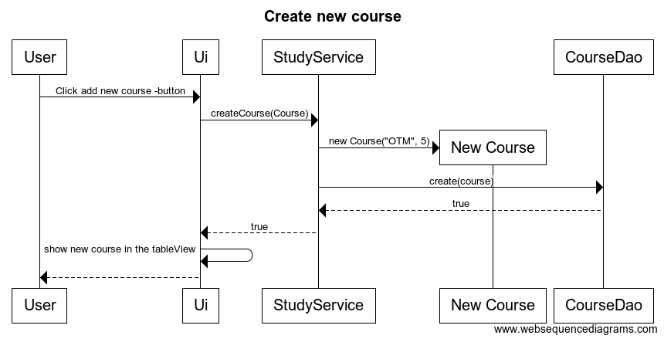
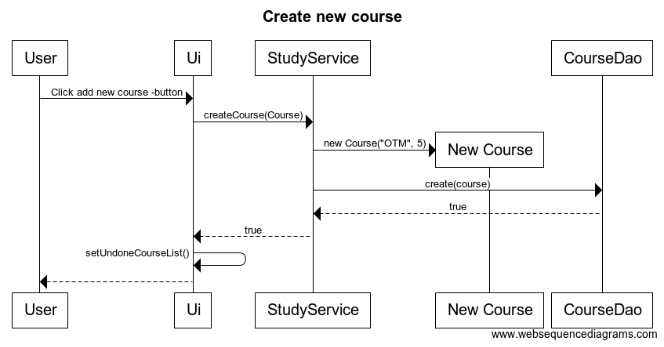
credit sum updated to change according the view

diff --git a/OpintoApp/src/main/java/opintoapp/ui/UserStudySceneController.java b/OpintoApp/src/main/java/opintoapp/ui/UserStudySceneController.java
@@ -47,7 +47,7 @@ public class UserStudySceneController implements Initializable {
 
     @FXML
     private TableView<Course> tableView;
-    
+
     @FXML
     private Label sumLabel;
 
@@ -78,6 +78,7 @@ public class UserStudySceneController implements Initializable {
 
     /**
      * Sets the list to show unfinished courses of the user
+     *
      * @throws SQLException if getting the courses fails, throws SQL Exception
      */
     public void setUndoneCourseList() throws SQLException {
@@ -88,6 +89,7 @@ public class UserStudySceneController implements Initializable {
 
     /**
      * Sets the list to show finished courses of the user
+     *
      * @throws SQLException if getting the courses fails, throws SQL Exception
      */
     public void setDoneCourseList() throws SQLException {
@@ -99,11 +101,11 @@ public class UserStudySceneController implements Initializable {
     @FXML
     private void handleLogoutButton(ActionEvent event) {
         try {
-            if(!showUndone) {
+            if (!showUndone) {
                 tableView.getColumns().remove(gradeColumn);
-            } 
+            }
             this.studyService.logout();
-            this.application.setLoginScene(); 
+            this.application.setLoginScene();
             errorMessage.setText("");
             stats.clear();
             sumLabel.setText("");
@@ -145,6 +147,7 @@ public class UserStudySceneController implements Initializable {
             setUndoneCourseList();
             errorMessage.setText("");
         }
+        setCreditsSum();
     }
 
     @FXML
@@ -161,6 +164,7 @@ public class UserStudySceneController implements Initializable {
 
     /**
      * Sets the needed features for the scene
+     *
      * @param url URL
      * @param rb ResourceBundle
      */
@@ -172,6 +176,7 @@ public class UserStudySceneController implements Initializable {
 
     /**
      * Creates the popup window for the course to be marked finished
+     *
      * @param c course that is going to be marked finished
      * @throws IOException if creation of the popup window fails, throws IO
      * Exception
@@ -183,18 +188,22 @@ public class UserStudySceneController implements Initializable {
         popUpSceneController.display("Mark " + c.getName() + " done?", "Set grade", root1);
         grade = popUpSceneController.returnGradeValue();
     }
-    
+
     /**
      * Sets the sum for all credits of the user's courses
+     *
      * @throws SQLException SQLException if operation fails
      */
     public void setCreditsSum() throws SQLException {
         stats.clear();
-        for (Course c : studyService.getUndoneCourses()) {
-            stats.addValue(c.getCredits());
-        }
-        for (Course c : studyService.getDoneCourses()) {
-            stats.addValue(c.getCredits());
+        if (showUndone) {
+            for (Course c : studyService.getUndoneCourses()) {
+                stats.addValue(c.getCredits());
+            }
+        } else {
+            for (Course c : studyService.getDoneCourses()) {
+                stats.addValue(c.getCredits());
+            }
         }
         sum = stats.getSum();
         sumLabel.setText(sum + " cr");
